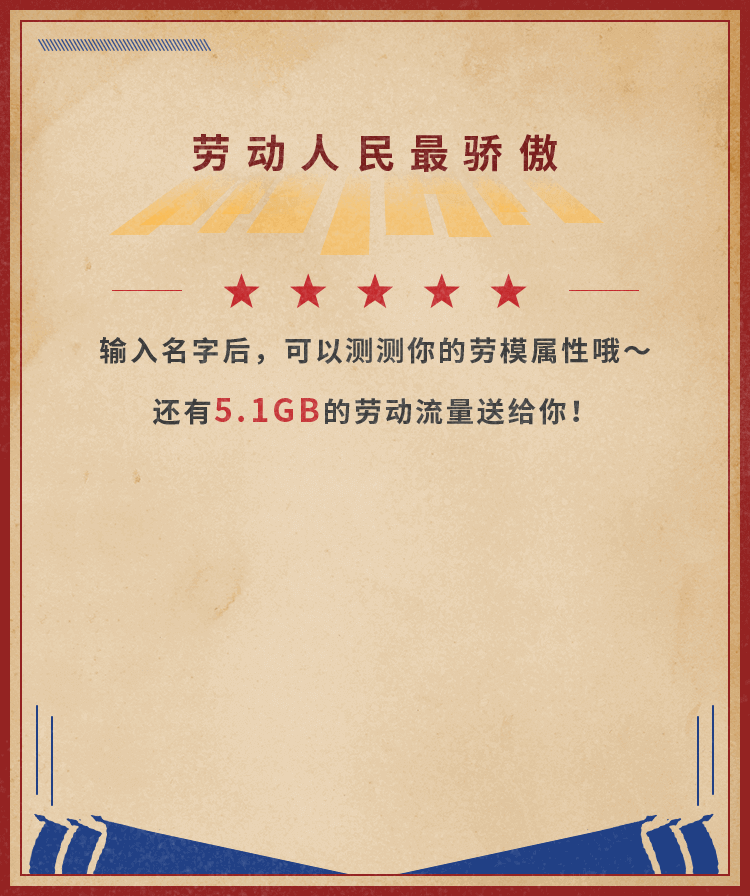
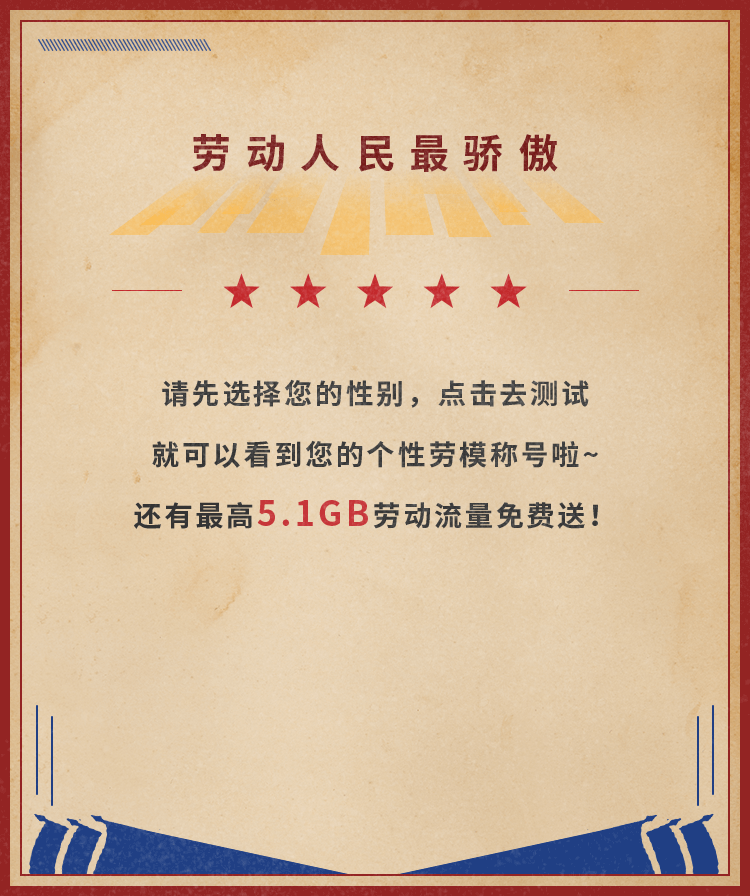
男男女女

Changed region(s): [[0.1227, 0.375, 0.8587, 0.5938], [0.184, 0.5625, 0.368, 0.5938]]

diff --git a/js/index.js b/js/index.js
@@ -18,14 +18,14 @@ $(function() {
     FastClick.attach(document.body);  
 })
 // 输入法聚焦
-$('.name').on('focus',function () {
-    var bodyname = document.querySelector('.name');
-    bodyname.scrollTop = bodyname.scrollHeight; 
-})
+// $('.name').on('focus',function () {
+//     var bodyname = document.querySelector('.name');
+//     bodyname.scrollTop = bodyname.scrollHeight; 
+// })
 // 软键盘顶起来解决问题
-$('.name').on('blur',function () {
-    window.scroll(0,0)
-})
+// $('.name').on('blur',function () {
+//     window.scroll(0,0)
+// })
 
 /**
 * 
@@ -133,34 +133,43 @@ $(document).ready(function () {
     })   
     // 去测试
     $('#start_test').on('click',function(){
-        var name = $('.name').val()
         var selected_status = $('.select_radio').length;
-        submitForm(name,selected_status);
+        submitForm(selected_status);
     });
     var sex
     // 用户填信息
-    function submitForm (name,selected_status) {
-        if (name !== '' && selected_status === 1) {
+    // function submitForm (name,selected_status) {
+    //     if (name !== '' && selected_status === 1) {
+    //         sex = $('.select_radio').parent('div').siblings('label').text();
+    //         showCard(sex)
+    //     } else {
+    //         if (name === '' && selected_status === 0) {
+    //             $('.prompt').text('您还没有填写姓名和性别');
+    //             showMask();
+    //             $('.sex_name').show();
+    //             // console.log('没有填写姓名和选择性别')
+    //         } else {
+    //             if (name === '') {
+    //                 $('.prompt').text('您还没有填写姓名');
+    //                 showMask();
+    //                 $('.sex_name').show();
+    //                 // console.log('没有填写姓名')
+    //             } else {
+    //                 $('.prompt').text('您还没有选择性别');
+    //                 showMask();
+    //                 $('.sex_name').show();
+    //             }
+    //         }
+    //     }
+    // }
+    function submitForm(selected_status) {
+        if (selected_status === 1) {
             sex = $('.select_radio').parent('div').siblings('label').text();
             showCard(sex)
         } else {
-            if (name === '' && selected_status === 0) {
-                $('.prompt').text('您还没有填写姓名和性别');
-                showMask();
-                $('.sex_name').show();
-                // console.log('没有填写姓名和选择性别')
-            } else {
-                if (name === '') {
-                    $('.prompt').text('您还没有填写姓名');
-                    showMask();
-                    $('.sex_name').show();
-                    // console.log('没有填写姓名')
-                } else {
-                    $('.prompt').text('您还没有选择性别');
-                    showMask();
-                    $('.sex_name').show();
-                }
-            }
+            $('.prompt').text('您还没有选择性别');
+            showMask();
+            $('.sex_name').show();
         }
     }
     // 卡片展示
@@ -179,10 +188,12 @@ $(document).ready(function () {
     function showModel (sextArr) { 
         var str = '';
         var str_share = '';
-        var nickname = $('.name').val();
+        // 调用微信名字（测试用）
+        var nickname = "显示微信昵称6个字符";
         if(nickname.length>6) {
             //方法：截取6个字符，之后的用省略号拼接~~~
-            nickname = $('.name').val().substring(0,6)+'...'
+            nickname = nickname.substring(0,6)+'...';
+            $('.name').text(nickname)
         }
         str = " <img src='"+sextArr[women_number].modeltypeImg +"'>";
         str_share = " <p><span>"+nickname+"</span><span> 被评为</span></p><img src='"+sextArr[women_number].modeltypeImg +"'>";
@@ -473,6 +484,8 @@ $(document).ready(function () {
 });
 // 生成图片方法
 function generateImage () {
+    // 调用生成二维码
+    erweima();
     var getimg_length = $('.getimg').children('img').length
     if (getimg_length == 0) {
         var copyDom = $('#pic')[0]
@@ -491,7 +504,18 @@ function generateImage () {
         })
     }
 }
-
+// 二维码
+function erweima() {
+    var link = "http://www.baidu.com"     //其中link为需生成二维码的链接
+    var qrcode = new QRCode("qrcode", {
+        text: link,
+        width: 100,
+        height: 100,
+        // colorDark: "pink",
+        // colorLight: "#ffffff",
+        correctLevel: QRCode.CorrectLevel.H
+    });
+}
 
 //显示遮罩层
 function showMask() {

diff --git a/index.html b/index.html
@@ -126,7 +126,8 @@
         <div></div>
         <div>
             <div>
-                <input type="text" placeholder="请输入您的名字" class="name">
+                <!-- <input type="text" placeholder="请输入您的名字" class="name"> -->
+                <!-- <p class="name"></p> -->
                 <div class="radio_selected">
                     <div>
                         <div>
@@ -203,7 +204,7 @@
                 </div>
                 <div class="share_detail">
                     <p>
-                        <span>输入昵称</span>
+                        <span class="name">微信昵称</span>
                         <span> 被评为：</span> 
                     </p>
                     <img src="./images/00.jpg" alt="" srcset="">
@@ -399,7 +400,7 @@
                         </div>
                         <div class="share_detail">
                             <p>
-                                <span>输入昵称</span>
+                                <span class="name">微信昵称</span>
                                 <span>被评为：</span>
                             </p>
                             <img src="./images/00.jpg" alt="" srcset="">
@@ -567,21 +568,6 @@
     </section>
     <!-- 遮罩层 -->
     <section class="mask" id="mask"></section>
-    <script>
-        function erweima() {
-                var link = "http://www.baidu.com"     //其中link为需生成二维码的链接
-                var qrcode = new QRCode("qrcode", {
-                    text: link,
-                    width: 100,
-                    height: 100,
-                    // colorDark: "pink",
-                    // colorLight: "#ffffff",
-                    correctLevel: QRCode.CorrectLevel.H
-                });
-            }
-            erweima();
-       // new QRCode(document.getElementById("qrcode"), "http://www.baidu.com");
-    </script>
 </body>
 
 </html>

diff --git a/css/styles.less b/css/styles.less
@@ -102,7 +102,7 @@ html,body{
                         right: 0;
                         margin: auto;
                         width: 4.77rem;
-                        height: 3.08rem;
+                        height:1.8rem;
                         z-index: 2;
                         display: flex;
                         flex-direction: column;
@@ -111,8 +111,11 @@ html,body{
                         & .name{
                             width: 4.77rem;
                             height: .83rem;
-                            background: url('../images/enter_01.png') no-repeat;
-                            background-size: cover;
+                            // background: url('../images/enter_01.png') no-repeat;
+                            // background-size: cover;
+                            font-size: .24rem;
+                            line-height: .83rem;
+                            background: #203f84;
                             border: 0;
                             padding:0 .2rem;
                         }

diff --git a/css/styles.css b/css/styles.css
@@ -111,7 +111,7 @@ body section.enter > div:nth-child(2) > div {
   right: 0;
   margin: auto;
   width: 4.77rem;
-  height: 3.08rem;
+  height: 1.8rem;
   z-index: 2;
   display: flex;
   flex-direction: column;
@@ -122,8 +122,9 @@ html section.enter > div:nth-child(2) > div .name,
 body section.enter > div:nth-child(2) > div .name {
   width: 4.77rem;
   height: .83rem;
-  background: url('../images/enter_01.png') no-repeat;
-  background-size: cover;
+  font-size: .24rem;
+  line-height: .83rem;
+  background: #203f84;
   border: 0;
   padding: 0 .2rem;
 }
